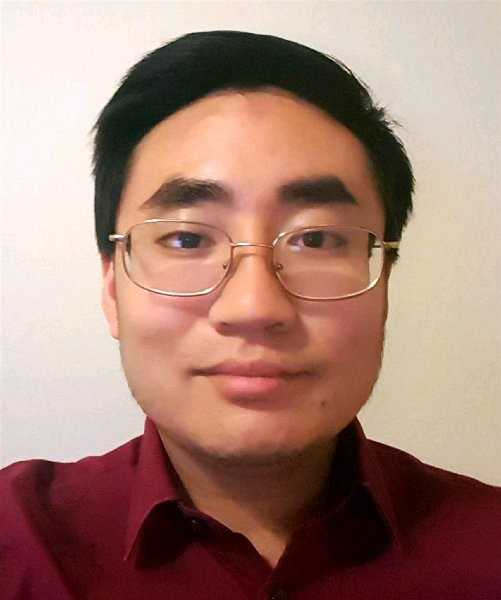
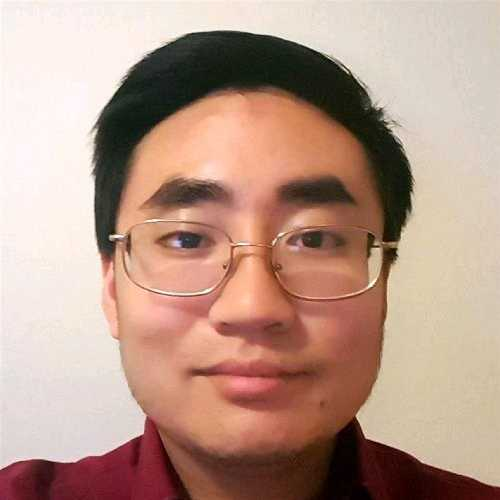
contact: Deleted contact page and moved contact information to about page.

diff --git a/src/data/GroupMembers.js b/src/data/GroupMembers.js
@@ -3,7 +3,7 @@ import robertImage from '../assets/robert.png'
 import abuzaydImage from '../assets/abuzayd.png'
 import benbImage from '../assets/benb.png'
 import benhImage from '../assets/benh.jpeg'
-import calvinImage from '../assets/calvin2.jpg'
+import calvinImage from '../assets/calvin.jpg'
 
 
 
@@ -12,36 +12,42 @@ export default [
       index: 0,
       name: "Robert C. Gutierrez",
       gitlab_id: "robgutierrez1",
+      email: "rgutierrez27@utexas.edu",
       image: robertImage
     },
     {
       index: 1,
       name: "Abu-Zayd Abdullah",
       gitlab_id: "AbuZaydAbdullah",
+      email: "abuzaydabdullah@utexas.edu",
       image: abuzaydImage
     },
     {
       index: 2,
       name: "David Sikabwe",
       gitlab_id: "dsikabwe",
+      email: "dsikabwe@utexas.edu",
       image: davidImage
     },
     {
       index: 3,
       name: "Calvin Dao",
       gitlab_id: "auproxis",
+      email: "calvindao16@gmail.com",
       image: calvinImage
     },
     {
       index: 4,
       name: "Ben Hazel",
       gitlab_id: "BenHazel007",
+      email: "ben.hazel@gmail.com",
       image: benhImage
     },
     {
       index: 5,
       name: "Ben Burton",
       gitlab_id: "bentburton",
+      email: "bentburton@gmail.com",
       image: benbImage
     }
 ];

diff --git a/src/App.js b/src/App.js
@@ -2,7 +2,6 @@ import React, { Component } from 'react';
 import { BrowserRouter as Router, Route, Switch } from 'react-router-dom';
 import { Home } from './Home';
 import { About } from './About';
-import { Contact } from './Contact';
 import { NoMatch } from './NoMatch';
 import { Layout } from './components/Layout';
 import { NavigationBar } from './components/NavigationBar';
@@ -17,7 +16,6 @@ class App extends Component {
             <Switch>
               <Route exact path="/" component={Home} />
               <Route path="/about" component={About} />
-              <Route path="/contact" component={Contact} />
               <Route component={NoMatch} />
             </Switch>
           </Layout>

diff --git a/src/components/AboutCard.js b/src/components/AboutCard.js
@@ -14,6 +14,8 @@ class AboutCard extends Component {
       <p>
       <p className="card-text">Lorem ipsum dolor sit amet, consectetur adipiscing elit. Fusce mattis feugiat elit, ac porta diam commodo non. In pulvinar neque dolor, sed vestibulum odio dapibus a. Curabitur turpis lacus, commodo eu purus sit amet, venenatis tristique ex. Donec sit amet mattis tellus, non hendrerit urna.</p>
       </p>
+      {"\n"}
+      <p className="card-text"><strong>Email:</strong> {member.email}</p>
       <div className="d-flex justify-content-between align-items-center">
         <div className="btn-group"></div>
       </div>

diff --git a/src/components/NavigationBar.js b/src/components/NavigationBar.js
@@ -35,11 +35,6 @@ export const NavigationBar = () => (
               <Link to="/about">About</Link>
             </Nav.Link>
           </Nav.Item>
-          <Nav.Item>
-            <Nav.Link>
-              <Link to="/contact">Contact</Link>
-            </Nav.Link>
-          </Nav.Item>
         </Nav>
       </Navbar.Collapse>
     </Navbar>
